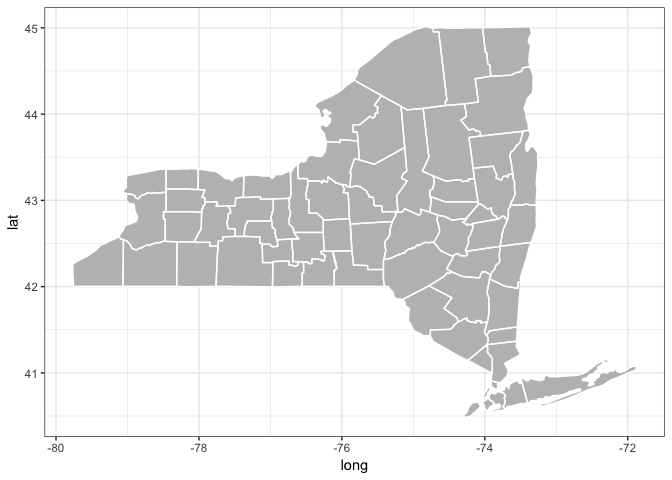
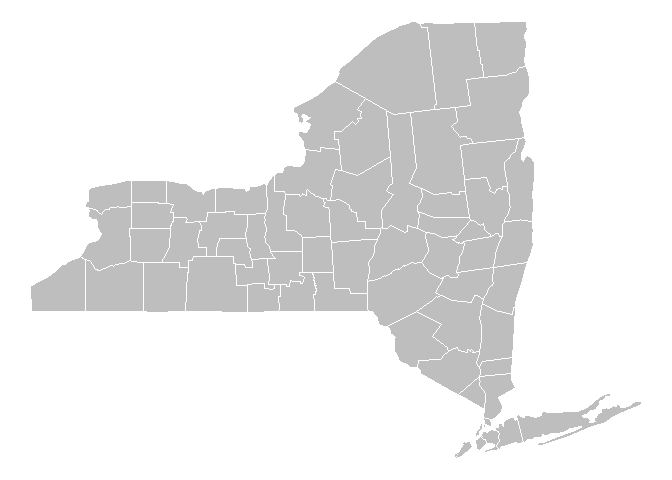
changed theme to void and fixed code styling

diff --git a/Map.md b/Map.md
@@ -8,9 +8,10 @@ ny = map_data("state") %>%
 ny_county = map_data("county")  %>% 
   filter(region == "new york")
 
-ggplot() + geom_polygon(data = ny, aes(x=long, y = lat, group = group), fill = "gray") + 
-  geom_polygon(data = ny_county, aes(x=long, y = lat, group = group), fill = NA, color = "white") +
-  theme_bw()
+ggplot() + 
+  geom_polygon(data = ny, aes(x = long, y = lat, group = group), fill = "gray") + 
+  geom_polygon(data = ny_county, aes(x = long, y = lat, group = group), fill = NA, color = "white") +
+  theme_void()
 ```
 
-![](Map_files/figure-markdown_github/unnamed-chunk-1-1.png)
+![](map_files/figure-markdown_github/unnamed-chunk-1-1.png)
